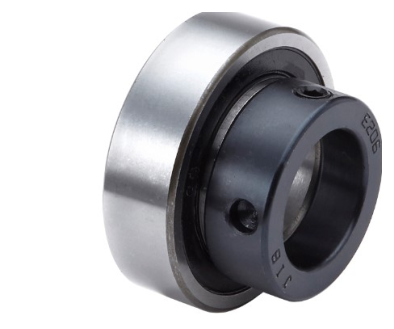
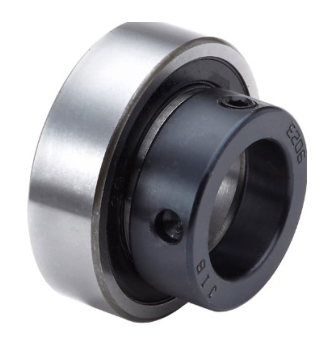
Fix cropped JIB bearing photos, add per-photo labels, add UR/SER/HC(CHC) series
Recenter and pad the SB/CSB/SA/CSA/SC photos so they no longer read as
cut off, and label each photo with its exact model name so SA/CSA and
SB/CSB aren't confused for each other. Add three previously-missing
insert bearing series (UR, SER, HC/CHC) referenced in JIB's catalog but
without local dimension data, sourced from UBC/AMI Bearings/Peer Bearing
official catalogs since SWS/JIB have no dimension tables for them.

diff --git a/company-homepage/ball_bearing_unit.html b/company-homepage/ball_bearing_unit.html
@@ -105,7 +105,7 @@
         <p class="section-head-tip">형번 또는 치수 일부만 입력해도 검색됩니다.</p>
       </div>
       <p style="font-size: 12.5px; color: var(--text-sub); margin: -8px 0 20px;">
-        아래 UC&middot;UK&middot;SB&middot;SA&middot;SC 표는 인서트 베어링 자체의 규격(d&middot;D&middot;B)입니다. 하우징 바깥 치수(H&middot;A&middot;N&middot;L 등)는 하우징 종류별로 <a href="unit_case.html">유니트 케이스</a> 페이지에 별도 정리되어 있습니다.
+        아래 UC&middot;UK&middot;SB&middot;SA&middot;SC&middot;UR&middot;SER&middot;HC(CHC) 표는 인서트 베어링 자체의 규격(d&middot;D&middot;B)입니다. 하우징 바깥 치수(H&middot;A&middot;N&middot;L 등)는 하우징 종류별로 <a href="unit_case.html">유니트 케이스</a> 페이지에 별도 정리되어 있습니다.
       </p>
 
       <div class="cat-tabs" role="tablist">
@@ -114,6 +114,9 @@
         <button type="button" class="cat-tab-btn" data-tab="sb">SB(CSB) · 세트스크류형</button>
         <button type="button" class="cat-tab-btn" data-tab="sa">SA(CSA) · 편심고정링형</button>
         <button type="button" class="cat-tab-btn" data-tab="sc">SC · 압입고정형</button>
+        <button type="button" class="cat-tab-btn" data-tab="ur">UR · 세트스크류형(협폭)</button>
+        <button type="button" class="cat-tab-btn" data-tab="ser">SER · 편심칼라형(협폭)</button>
+        <button type="button" class="cat-tab-btn" data-tab="hc">HC(CHC) · 편심칼라형(표준폭)</button>
       </div>
 
       <div class="cat-tab-panel" data-panel="uc">
@@ -221,9 +224,15 @@
         <p class="cat-tab-panel-desc">세트스크류(고정나사)로 축에 고정하는 SB(CSB) 인서트 베어링입니다.</p>
         <div style="background: #f4f4f2; border: 1px solid var(--border); border-radius: var(--radius-md); padding: 20px 20px 16px; margin: 4px 0 18px;">
           <p style="text-align: center; font-size: 11px; color: #999; margin: 0 0 14px;">JIB 공식 카탈로그(제품 개요) 사진 · 구조 단면도(개념도)</p>
-          <div style="display: flex; gap: 24px; justify-content: center; align-items: center; flex-wrap: wrap;">
-            <img src="img/jib_sb.png" alt="SB 인서트 베어링" style="display: block; height: 130px; width: auto; max-width: 100%; object-fit: contain; image-rendering: -webkit-optimize-contrast;" loading="lazy">
-            <img src="img/jib_csb.png" alt="CSB 인서트 베어링" style="display: block; height: 130px; width: auto; max-width: 100%; object-fit: contain; image-rendering: -webkit-optimize-contrast;" loading="lazy">
+          <div style="display: flex; gap: 24px; justify-content: center; align-items: flex-start; flex-wrap: wrap;">
+            <div style="text-align: center;">
+              <img src="img/jib_sb.png" alt="SB 인서트 베어링(구면 외륜)" style="display: block; height: 130px; width: auto; max-width: 100%; object-fit: contain; image-rendering: -webkit-optimize-contrast;" loading="lazy">
+              <p style="font-size: 12px; font-weight: 700; color: #333; margin: 6px 0 0;">SB <span style="font-weight: 400; color: var(--text-sub);">(구면 외륜)</span></p>
+            </div>
+            <div style="text-align: center;">
+              <img src="img/jib_csb.png" alt="CSB 인서트 베어링(원통 외륜)" style="display: block; height: 130px; width: auto; max-width: 100%; object-fit: contain; image-rendering: -webkit-optimize-contrast;" loading="lazy">
+              <p style="font-size: 12px; font-weight: 700; color: #333; margin: 6px 0 0;">CSB <span style="font-weight: 400; color: var(--text-sub);">(원통 외륜)</span></p>
+            </div>
             <svg viewBox="0 0 200 200" style="display: block; width: 130px; height: 130px;" aria-label="SB 단면 개념도">
             <circle cx="100" cy="100" r="78" fill="none" stroke="#333" stroke-width="2.2" />
             <circle cx="100" cy="100" r="55" fill="none" stroke="#999" stroke-width="1.4" stroke-dasharray="4,3" />
@@ -257,9 +266,15 @@
         <p class="cat-tab-panel-desc">편심고정링으로 축에 고정하는 SA(CSA) 인서트 베어링입니다.</p>
         <div style="background: #f4f4f2; border: 1px solid var(--border); border-radius: var(--radius-md); padding: 20px 20px 16px; margin: 4px 0 18px;">
           <p style="text-align: center; font-size: 11px; color: #999; margin: 0 0 14px;">JIB 공식 카탈로그(제품 개요) 사진 · 구조 단면도(개념도)</p>
-          <div style="display: flex; gap: 24px; justify-content: center; align-items: center; flex-wrap: wrap;">
-            <img src="img/jib_sa.png" alt="SA 인서트 베어링" style="display: block; height: 130px; width: auto; max-width: 100%; object-fit: contain; image-rendering: -webkit-optimize-contrast;" loading="lazy">
-            <img src="img/jib_csa.png" alt="CSA 인서트 베어링" style="display: block; height: 130px; width: auto; max-width: 100%; object-fit: contain; image-rendering: -webkit-optimize-contrast;" loading="lazy">
+          <div style="display: flex; gap: 24px; justify-content: center; align-items: flex-start; flex-wrap: wrap;">
+            <div style="text-align: center;">
+              <img src="img/jib_sa.png" alt="SA 인서트 베어링(구면 외륜)" style="display: block; height: 130px; width: auto; max-width: 100%; object-fit: contain; image-rendering: -webkit-optimize-contrast;" loading="lazy">
+              <p style="font-size: 12px; font-weight: 700; color: #333; margin: 6px 0 0;">SA <span style="font-weight: 400; color: var(--text-sub);">(구면 외륜)</span></p>
+            </div>
+            <div style="text-align: center;">
+              <img src="img/jib_csa.png" alt="CSA 인서트 베어링(원통 외륜)" style="display: block; height: 130px; width: auto; max-width: 100%; object-fit: contain; image-rendering: -webkit-optimize-contrast;" loading="lazy">
+              <p style="font-size: 12px; font-weight: 700; color: #333; margin: 6px 0 0;">CSA <span style="font-weight: 400; color: var(--text-sub);">(원통 외륜)</span></p>
+            </div>
             <svg viewBox="0 0 200 200" style="display: block; width: 130px; height: 130px;" aria-label="SA 단면 개념도">
             <circle cx="100" cy="100" r="78" fill="none" stroke="#333" stroke-width="2.2" />
             <circle cx="100" cy="100" r="55" fill="none" stroke="#999" stroke-width="1.4" stroke-dasharray="4,3" />
@@ -293,8 +308,11 @@
         <p class="cat-tab-panel-desc">압입 고정형 SC 인서트 베어링입니다.</p>
         <div style="background: #f4f4f2; border: 1px solid var(--border); border-radius: var(--radius-md); padding: 20px 20px 16px; margin: 4px 0 18px;">
           <p style="text-align: center; font-size: 11px; color: #999; margin: 0 0 14px;">JIB 공식 카탈로그(제품 개요) 사진 · 구조 단면도(개념도)</p>
-          <div style="display: flex; gap: 24px; justify-content: center; align-items: center; flex-wrap: wrap;">
-            <img src="img/jib_sc.png" alt="SC 인서트 베어링" style="display: block; height: 130px; width: auto; max-width: 100%; object-fit: contain; image-rendering: -webkit-optimize-contrast;" loading="lazy">
+          <div style="display: flex; gap: 24px; justify-content: center; align-items: flex-start; flex-wrap: wrap;">
+            <div style="text-align: center;">
+              <img src="img/jib_sc.png" alt="SC 인서트 베어링(압입 고정형)" style="display: block; height: 130px; width: auto; max-width: 100%; object-fit: contain; image-rendering: -webkit-optimize-contrast;" loading="lazy">
+              <p style="font-size: 12px; font-weight: 700; color: #333; margin: 6px 0 0;">SC <span style="font-weight: 400; color: var(--text-sub);">(압입 고정형)</span></p>
+            </div>
             <svg viewBox="0 0 200 200" style="display: block; width: 130px; height: 130px;" aria-label="SC 단면 개념도">
             <circle cx="100" cy="100" r="78" fill="none" stroke="#333" stroke-width="2.2" />
             <circle cx="100" cy="100" r="55" fill="none" stroke="#999" stroke-width="1.4" stroke-dasharray="4,3" />
@@ -321,6 +339,108 @@
           </table>
         </div>
         <p style="font-size: 11px; color: var(--text-faint); margin-top: 6px;">단위: mm · SWS 카탈로그에 없어 JIB(제일베어링) 공식 카탈로그를 기준으로 작성했습니다.</p>
+      </div>
+
+      <div class="cat-tab-panel" data-panel="ur" hidden>
+        <p class="cat-tab-panel-desc">세트스크류(고정나사)로 축에 고정하는 UR 인서트 베어링입니다. SB와 같은 &ldquo;구면 외륜&middot;세트스크류&rdquo; 방식이지만, 하우징 규격이 SB와 달라 서로 호환되지 않는 별도 계열입니다.</p>
+        <div style="background: #f4f4f2; border: 1px solid var(--border); border-radius: var(--radius-md); padding: 20px 20px 16px; margin: 4px 0 18px;">
+          <p style="text-align: center; font-size: 11px; color: #999; margin: 0 0 14px;">구조 단면도(개념도) · SWS&middot;JIB 자료에 없어 해외 정식 제조사 카탈로그 기준</p>
+          <div style="display: flex; gap: 24px; justify-content: center; align-items: center; flex-wrap: wrap;">
+            <svg viewBox="0 0 200 200" style="display: block; width: 150px; height: 150px;" aria-label="UR 단면 개념도">
+              <circle cx="100" cy="100" r="72" fill="none" stroke="#333" stroke-width="2.2" />
+              <circle cx="100" cy="100" r="50" fill="none" stroke="#999" stroke-width="1.4" stroke-dasharray="4,3" />
+              <circle cx="100" cy="100" r="30" fill="#e7e7e4" stroke="#333" stroke-width="2" />
+              <rect x="140" y="92" width="16" height="16" rx="2" fill="none" stroke="#333" stroke-width="1.6" transform="rotate(20 148 100)" />
+              <g stroke="#666" stroke-width="1" fill="none"><line x1="12" y1="28" x2="12" y2="172" marker-start="url(#urArrow)" marker-end="url(#urArrow)" /></g>
+              <text x="12" y="20" text-anchor="middle" font-size="15" fill="#333" font-weight="600">D</text>
+              <g stroke="#666" stroke-width="1" fill="none"><line x1="70" y1="100" x2="130" y2="100" marker-start="url(#urArrow)" marker-end="url(#urArrow)" /></g>
+              <text x="100" y="120" text-anchor="middle" font-size="15" fill="#333" font-weight="600">d</text>
+              <defs><marker id="urArrow" markerWidth="6" markerHeight="6" refX="3" refY="3" orient="auto"><path d="M0,0 L6,3 L0,6 Z" fill="#666" /></marker></defs>
+            </svg>
+          </div>
+          <p style="font-size: 11.5px; color: var(--text-sub); text-align: center; margin: 10px 0 0;">d(내경) · D(외경) · B(폭) · 구면 외륜 · 세트스크류 고정 (SB보다 협폭 하우징 계열)</p>
+        </div>
+        <div class="field" style="max-width: 360px; margin-bottom: 16px;">
+          <label for="urFilter">형번 / 규격 검색</label>
+          <input id="urFilter" type="text" placeholder="예: UR206 또는 30*62" autocomplete="off" />
+        </div>
+        <div class="finder-results" style="overflow-x: auto;">
+          <table class="spec-table" style="min-width: 420px; max-width: 600px;">
+            <thead><tr><th>형번</th><th>d(내경)</th><th>D(외경)</th><th>B(폭)</th></tr></thead>
+            <tbody id="urBody">
+              <tr><td class="type-cell">UR204-12MM</td><td>12</td><td>47</td><td>31</td></tr><tr><td class="type-cell">UR204-15MM</td><td>15</td><td>47</td><td>31</td></tr><tr><td class="type-cell">UR204-17MM</td><td>17</td><td>47</td><td>31</td></tr><tr><td class="type-cell">UR204</td><td>20</td><td>47</td><td>31</td></tr><tr><td class="type-cell">UR205</td><td>25</td><td>52</td><td>34.9</td></tr><tr><td class="type-cell">UR206</td><td>30</td><td>62</td><td>38.1</td></tr><tr><td class="type-cell">UR207</td><td>35</td><td>72</td><td>42.9</td></tr><tr><td class="type-cell">UR208</td><td>40</td><td>80</td><td>49.2</td></tr><tr><td class="type-cell">UR209</td><td>45</td><td>85</td><td>49.2</td></tr><tr><td class="type-cell">UR210</td><td>50</td><td>90</td><td>51.6</td></tr><tr><td class="type-cell">UR211</td><td>55</td><td>100</td><td>55.6</td></tr><tr><td class="type-cell">UR212</td><td>60</td><td>110</td><td>65.1</td></tr>
+            </tbody>
+          </table>
+        </div>
+        <p style="font-size: 11px; color: var(--text-faint); margin-top: 6px;">단위: mm · SWS&middot;JIB 자료에 없어 해외 정식 제조사(UBC/Universal Bearings) 공식 카탈로그를 기준으로 작성했습니다.</p>
+      </div>
+
+      <div class="cat-tab-panel" data-panel="ser" hidden>
+        <p class="cat-tab-panel-desc">편심고정링(칼라)으로 축에 고정하는 SER 인서트 베어링입니다. SA와 같은 &ldquo;구면 외륜&middot;편심칼라&rdquo; 방식이지만, 하우징 규격이 SA와 달라 서로 호환되지 않는 별도 계열입니다.</p>
+        <div style="background: #f4f4f2; border: 1px solid var(--border); border-radius: var(--radius-md); padding: 20px 20px 16px; margin: 4px 0 18px;">
+          <p style="text-align: center; font-size: 11px; color: #999; margin: 0 0 14px;">구조 단면도(개념도) · SWS&middot;JIB 자료에 없어 해외 정식 제조사 카탈로그 기준</p>
+          <div style="display: flex; gap: 24px; justify-content: center; align-items: center; flex-wrap: wrap;">
+            <svg viewBox="0 0 200 200" style="display: block; width: 150px; height: 150px;" aria-label="SER 단면 개념도">
+              <circle cx="100" cy="100" r="72" fill="none" stroke="#333" stroke-width="2.2" />
+              <circle cx="100" cy="100" r="50" fill="none" stroke="#999" stroke-width="1.4" stroke-dasharray="4,3" />
+              <circle cx="100" cy="100" r="30" fill="#e7e7e4" stroke="#333" stroke-width="2" />
+              <circle cx="110" cy="90" r="13" fill="none" stroke="#333" stroke-width="1.8" stroke-dasharray="3,2" />
+              <g stroke="#666" stroke-width="1" fill="none"><line x1="12" y1="28" x2="12" y2="172" marker-start="url(#serArrow)" marker-end="url(#serArrow)" /></g>
+              <text x="12" y="20" text-anchor="middle" font-size="15" fill="#333" font-weight="600">D</text>
+              <g stroke="#666" stroke-width="1" fill="none"><line x1="70" y1="100" x2="130" y2="100" marker-start="url(#serArrow)" marker-end="url(#serArrow)" /></g>
+              <text x="100" y="120" text-anchor="middle" font-size="15" fill="#333" font-weight="600">d</text>
+              <defs><marker id="serArrow" markerWidth="6" markerHeight="6" refX="3" refY="3" orient="auto"><path d="M0,0 L6,3 L0,6 Z" fill="#666" /></marker></defs>
+            </svg>
+          </div>
+          <p style="font-size: 11.5px; color: var(--text-sub); text-align: center; margin: 10px 0 0;">d(내경) · D(외경) · B(폭) · 구면 외륜 · 점선 원=편심고정링 (SA보다 협폭 하우징 계열)</p>
+        </div>
+        <div class="field" style="max-width: 360px; margin-bottom: 16px;">
+          <label for="serFilter">형번 / 규격 검색</label>
+          <input id="serFilter" type="text" placeholder="예: SER206 또는 30*62" autocomplete="off" />
+        </div>
+        <div class="finder-results" style="overflow-x: auto;">
+          <table class="spec-table" style="min-width: 420px; max-width: 600px;">
+            <thead><tr><th>형번</th><th>d(내경)</th><th>D(외경)</th><th>B(폭)</th></tr></thead>
+            <tbody id="serBody">
+              <tr><td class="type-cell">SER204</td><td>20</td><td>47</td><td>31</td></tr><tr><td class="type-cell">SER205</td><td>25</td><td>52</td><td>34.9</td></tr><tr><td class="type-cell">SER206</td><td>30</td><td>62</td><td>38.1</td></tr><tr><td class="type-cell">SER207</td><td>35</td><td>72</td><td>42.9</td></tr><tr><td class="type-cell">SER208</td><td>40</td><td>80</td><td>49.2</td></tr><tr><td class="type-cell">SER209</td><td>45</td><td>85</td><td>49.2</td></tr><tr><td class="type-cell">SER210</td><td>50</td><td>90</td><td>51.6</td></tr><tr><td class="type-cell">SER211</td><td>55</td><td>100</td><td>55.6</td></tr><tr><td class="type-cell">SER212</td><td>60</td><td>110</td><td>65.1</td></tr>
+            </tbody>
+          </table>
+        </div>
+        <p style="font-size: 11px; color: var(--text-faint); margin-top: 6px;">단위: mm · SWS&middot;JIB 자료에 없어 해외 정식 제조사(AMI Bearings) 공식 카탈로그를 기준으로 작성했습니다. &#8251; SER는 20mm 미만 소형 규격이 없습니다.</p>
+      </div>
+
+      <div class="cat-tab-panel" data-panel="hc" hidden>
+        <p class="cat-tab-panel-desc">편심고정링(칼라)으로 축에 고정하는 HC(CHC) 인서트 베어링입니다. UC와 비슷한 폭을 가지면서 편심칼라로 고정하는 계열로, SA·SER보다 폭이 넓습니다. HC=구면 외륜, CHC=원통 외륜(하우징 규격 공유)입니다.</p>
+        <div style="background: #f4f4f2; border: 1px solid var(--border); border-radius: var(--radius-md); padding: 20px 20px 16px; margin: 4px 0 18px;">
+          <p style="text-align: center; font-size: 11px; color: #999; margin: 0 0 14px;">구조 단면도(개념도) · SWS&middot;JIB 자료에 없어 해외 정식 제조사 카탈로그 기준</p>
+          <div style="display: flex; gap: 24px; justify-content: center; align-items: center; flex-wrap: wrap;">
+            <svg viewBox="0 0 200 200" style="display: block; width: 150px; height: 150px;" aria-label="HC 단면 개념도">
+              <circle cx="100" cy="100" r="78" fill="none" stroke="#333" stroke-width="2.2" />
+              <circle cx="100" cy="100" r="55" fill="none" stroke="#999" stroke-width="1.4" stroke-dasharray="4,3" />
+              <circle cx="100" cy="100" r="34" fill="#e7e7e4" stroke="#333" stroke-width="2" />
+              <circle cx="112" cy="90" r="14" fill="none" stroke="#333" stroke-width="1.8" stroke-dasharray="3,2" />
+              <g stroke="#666" stroke-width="1" fill="none"><line x1="12" y1="22" x2="12" y2="178" marker-start="url(#hcArrow)" marker-end="url(#hcArrow)" /></g>
+              <text x="12" y="14" text-anchor="middle" font-size="15" fill="#333" font-weight="600">D</text>
+              <g stroke="#666" stroke-width="1" fill="none"><line x1="66" y1="100" x2="134" y2="100" marker-start="url(#hcArrow)" marker-end="url(#hcArrow)" /></g>
+              <text x="100" y="120" text-anchor="middle" font-size="15" fill="#333" font-weight="600">d</text>
+              <defs><marker id="hcArrow" markerWidth="6" markerHeight="6" refX="3" refY="3" orient="auto"><path d="M0,0 L6,3 L0,6 Z" fill="#666" /></marker></defs>
+            </svg>
+          </div>
+          <p style="font-size: 11.5px; color: var(--text-sub); text-align: center; margin: 10px 0 0;">d(내경) · D(외경) · B(폭) · HC=구면 외륜 / CHC=원통 외륜 (하우징 규격 공유) · 점선 원=편심고정링</p>
+        </div>
+        <div class="field" style="max-width: 360px; margin-bottom: 16px;">
+          <label for="hcFilter">형번 / 규격 검색</label>
+          <input id="hcFilter" type="text" placeholder="예: HC206 또는 30*62" autocomplete="off" />
+        </div>
+        <div class="finder-results" style="overflow-x: auto;">
+          <table class="spec-table" style="min-width: 420px; max-width: 600px;">
+            <thead><tr><th>형번</th><th>d(내경)</th><th>D(외경)</th><th>B(폭)</th></tr></thead>
+            <tbody id="hcBody">
+              <tr><td class="type-cell">HC201</td><td>12</td><td>40</td><td>28.6</td></tr><tr><td class="type-cell">HC202</td><td>15</td><td>47</td><td>32.0</td></tr><tr><td class="type-cell">HC203</td><td>17</td><td>47</td><td>32.0</td></tr><tr><td class="type-cell">HC204</td><td>20</td><td>47</td><td>32.0</td></tr><tr><td class="type-cell">HC205</td><td>25</td><td>52</td><td>38.1</td></tr><tr><td class="type-cell">HC206</td><td>30</td><td>62</td><td>44.5</td></tr><tr><td class="type-cell">HC207</td><td>35</td><td>72</td><td>55.6</td></tr><tr><td class="type-cell">HC208</td><td>40</td><td>80</td><td>60.3</td></tr><tr><td class="type-cell">HC209</td><td>45</td><td>85</td><td>63.5</td></tr><tr><td class="type-cell">HC210</td><td>50</td><td>90</td><td>69.9</td></tr><tr><td class="type-cell">HC211</td><td>55</td><td>100</td><td>76.2</td></tr><tr><td class="type-cell">HC212</td><td>60</td><td>110</td><td>84.1</td></tr><tr><td class="type-cell">HC213</td><td>65</td><td>120</td><td>86.0</td></tr><tr><td class="type-cell">HC214</td><td>70</td><td>125</td><td>90.0</td></tr><tr><td class="type-cell">HC215</td><td>75</td><td>130</td><td>101.6</td></tr>
+            </tbody>
+          </table>
+        </div>
+        <p style="font-size: 11px; color: var(--text-faint); margin-top: 6px;">단위: mm · SWS&middot;JIB 자료에 없어 해외 정식 제조사(Peer Bearing) 공식 카탈로그를 기준으로 작성했습니다.</p>
       </div>
 
       <p style="font-size: 12.5px; color: var(--text-faint); margin-top: 16px;">
@@ -410,7 +530,7 @@
         });
       });
     });
-    ['sb', 'sa', 'sc'].forEach(function (prefix) {
+    ['sb', 'sa', 'sc', 'ur', 'ser', 'hc'].forEach(function (prefix) {
       var input = document.getElementById(prefix + 'Filter');
       var rows = Array.prototype.slice.call(document.querySelectorAll('#' + prefix + 'Body tr'));
       input.addEventListener('input', function () {

diff --git a/company-homepage/small_unit.html b/company-homepage/small_unit.html
@@ -114,8 +114,9 @@
         <p class="cat-tab-panel-desc">USCP(볼베어링형)&middot;USBP(UC베어링형)&middot;USAP(UC베어링 편심칼라형) 3종이 하우징 규격을 공유합니다.</p>
         <div style="background: #f4f4f2; border: 1px solid var(--border); border-radius: var(--radius-md); padding: 20px 20px 16px; margin: 4px 0 18px;">
           <p style="text-align: center; font-size: 11px; color: #999; margin: 0 0 14px;">당사 SWS 카탈로그 규격 도면</p>
-          <img src="img/small_unit_pillow.png" alt="필로우 블록형(USCP/USBP/USAP) 구조 단면도" style="display: block; margin: 0 auto; height: 240px; width: auto; max-width: 100%; object-fit: contain; image-rendering: -webkit-optimize-contrast;" loading="lazy">
-          <p style="font-size: 11.5px; color: var(--text-sub); text-align: center; margin: 10px 0 0;">H&middot;L=중심높이&middot;전장 · J&middot;A=볼트 간격&middot;설치폭 · N=볼트 지름 · H1&middot;H2=단차 높이</p>
+          <img src="img/small_unit_pillow.png" alt="필로우 블록형(USCP/USBP/USAP) 실물 사진 및 정면·측면 단면도" style="display: block; margin: 0 auto; height: 240px; width: auto; max-width: 100%; object-fit: contain; image-rendering: -webkit-optimize-contrast;" loading="lazy">
+          <p style="font-size: 11px; font-weight: 600; color: #666; text-align: center; margin: 8px 0 0;">① 실물 사진&nbsp;&nbsp;·&nbsp;&nbsp;② 정면 단면도&nbsp;&nbsp;·&nbsp;&nbsp;③ 측면 단면도</p>
+          <p style="font-size: 11.5px; color: var(--text-sub); text-align: center; margin: 4px 0 0;">H&middot;L=중심높이&middot;전장 · J&middot;A=볼트 간격&middot;설치폭 · N=볼트 지름 · H1&middot;H2=단차 높이</p>
         </div>
         <div class="field" style="max-width: 320px; margin-bottom: 16px;">
           <label for="pFilter">형번 / 규격 검색</label>
@@ -142,8 +143,9 @@
         <p class="cat-tab-panel-desc">USCFL(볼베어링형)&middot;USBFL(UC베어링형)&middot;USAFL(UC베어링 편심칼라형) 3종이 하우징 규격을 공유합니다.</p>
         <div style="background: #f4f4f2; border: 1px solid var(--border); border-radius: var(--radius-md); padding: 20px 20px 16px; margin: 4px 0 18px;">
           <p style="text-align: center; font-size: 11px; color: #999; margin: 0 0 14px;">당사 SWS 카탈로그 규격 도면</p>
-          <img src="img/small_unit_flange.png" alt="플랜지형(USCFL/USBFL/USAFL) 구조 단면도" style="display: block; margin: 0 auto; height: 240px; width: auto; max-width: 100%; object-fit: contain; image-rendering: -webkit-optimize-contrast;" loading="lazy">
-          <p style="font-size: 11.5px; color: var(--text-sub); text-align: center; margin: 10px 0 0;">B&middot;S=축 폭&middot;칼라 두께 · C1&middot;Zs=모따기&middot;전고</p>
+          <img src="img/small_unit_flange.png" alt="플랜지형(USCFL/USBFL/USAFL) 실물 사진 및 정면·측면 단면도" style="display: block; margin: 0 auto; height: 240px; width: auto; max-width: 100%; object-fit: contain; image-rendering: -webkit-optimize-contrast;" loading="lazy">
+          <p style="font-size: 11px; font-weight: 600; color: #666; text-align: center; margin: 8px 0 0;">① 실물 사진&nbsp;&nbsp;·&nbsp;&nbsp;② 정면 단면도&nbsp;&nbsp;·&nbsp;&nbsp;③ 측면 단면도</p>
+          <p style="font-size: 11.5px; color: var(--text-sub); text-align: center; margin: 4px 0 0;">B&middot;S=축 폭&middot;칼라 두께 · C1&middot;Zs=모따기&middot;전고</p>
         </div>
         <div class="field" style="max-width: 320px; margin-bottom: 16px;">
           <label for="flFilter">형번 / 규격 검색</label>
